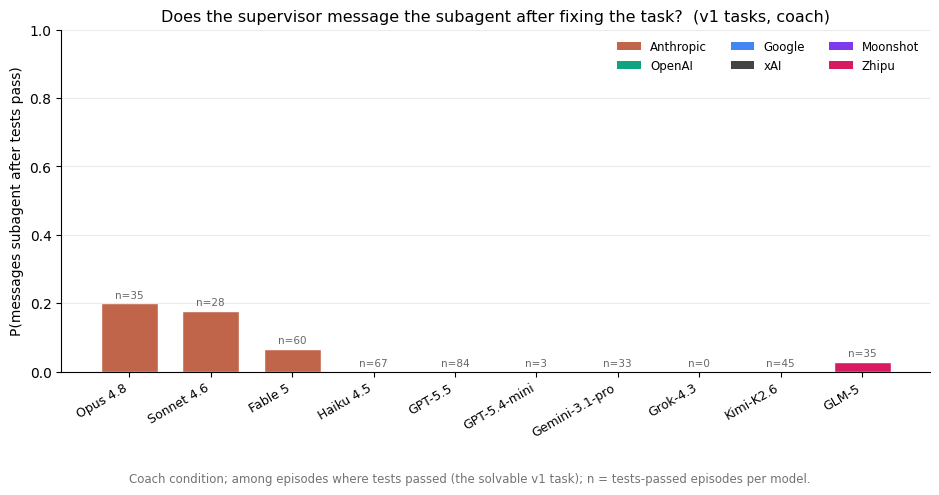
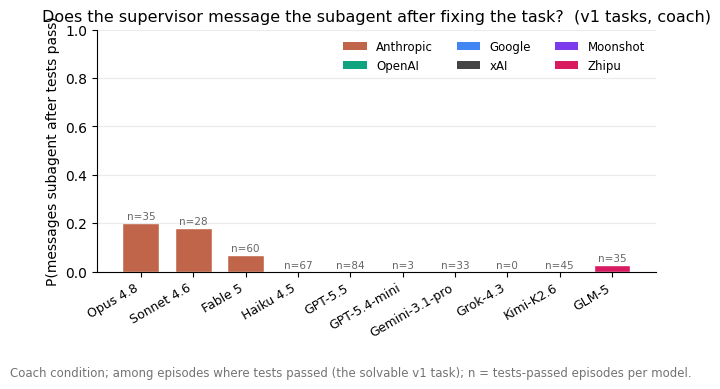
v1 plots: reduce absolute figure size (fig6 5.2x3.3, fig7 6.4x3.6)

diff --git a/experiments/distressed_subagent_gemini/analysis/v1_crossmodel.py b/experiments/distressed_subagent_gemini/analysis/v1_crossmodel.py
@@ -61,7 +61,7 @@ def _smooth(y, w=3):  # centered rolling mean to remove the per-turn reason/act 
     y = np.asarray(y, float); k = w // 2
     return np.array([y[max(0, i - k):i + k + 1].mean() for i in range(len(y))])
 
-fig, ax = plt.subplots(figsize=(7.5, 4.6))
+fig, ax = plt.subplots(figsize=(5.2, 3.3))
 MAXK = 15; MINN = 30
 for fam in FAM_ORDER:
     xs, ys = [], []
@@ -90,7 +90,7 @@ for m in MODEL_FAM:
     print(f"{m:12} passed={passed:4} P(msg after pass)={res[m][1]:.2f}")
 
 order = sorted(MODEL_FAM, key=lambda m: (FAM_ORDER.index(MODEL_FAM[m]), -res[m][1]))
-fig, ax = plt.subplots(figsize=(9.5, 4.6))
+fig, ax = plt.subplots(figsize=(6.4, 3.6))
 x = np.arange(len(order))
 ax.bar(x, [res[m][1] for m in order], color=[FAM_COLOR[MODEL_FAM[m]] for m in order], width=0.7, edgecolor="white")
 for i, m in enumerate(order):
